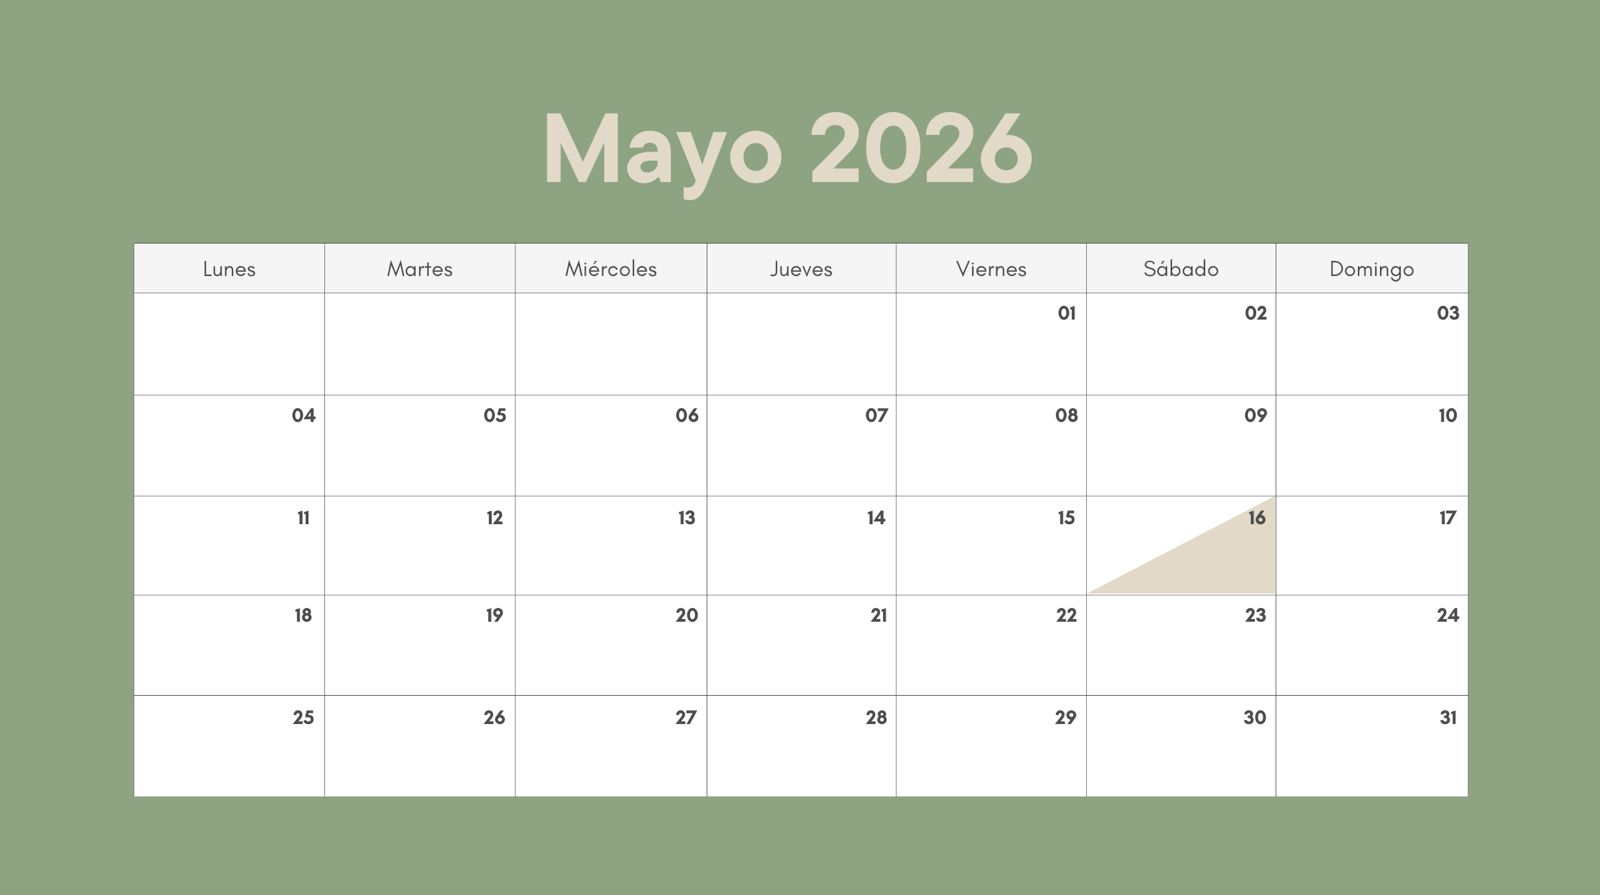
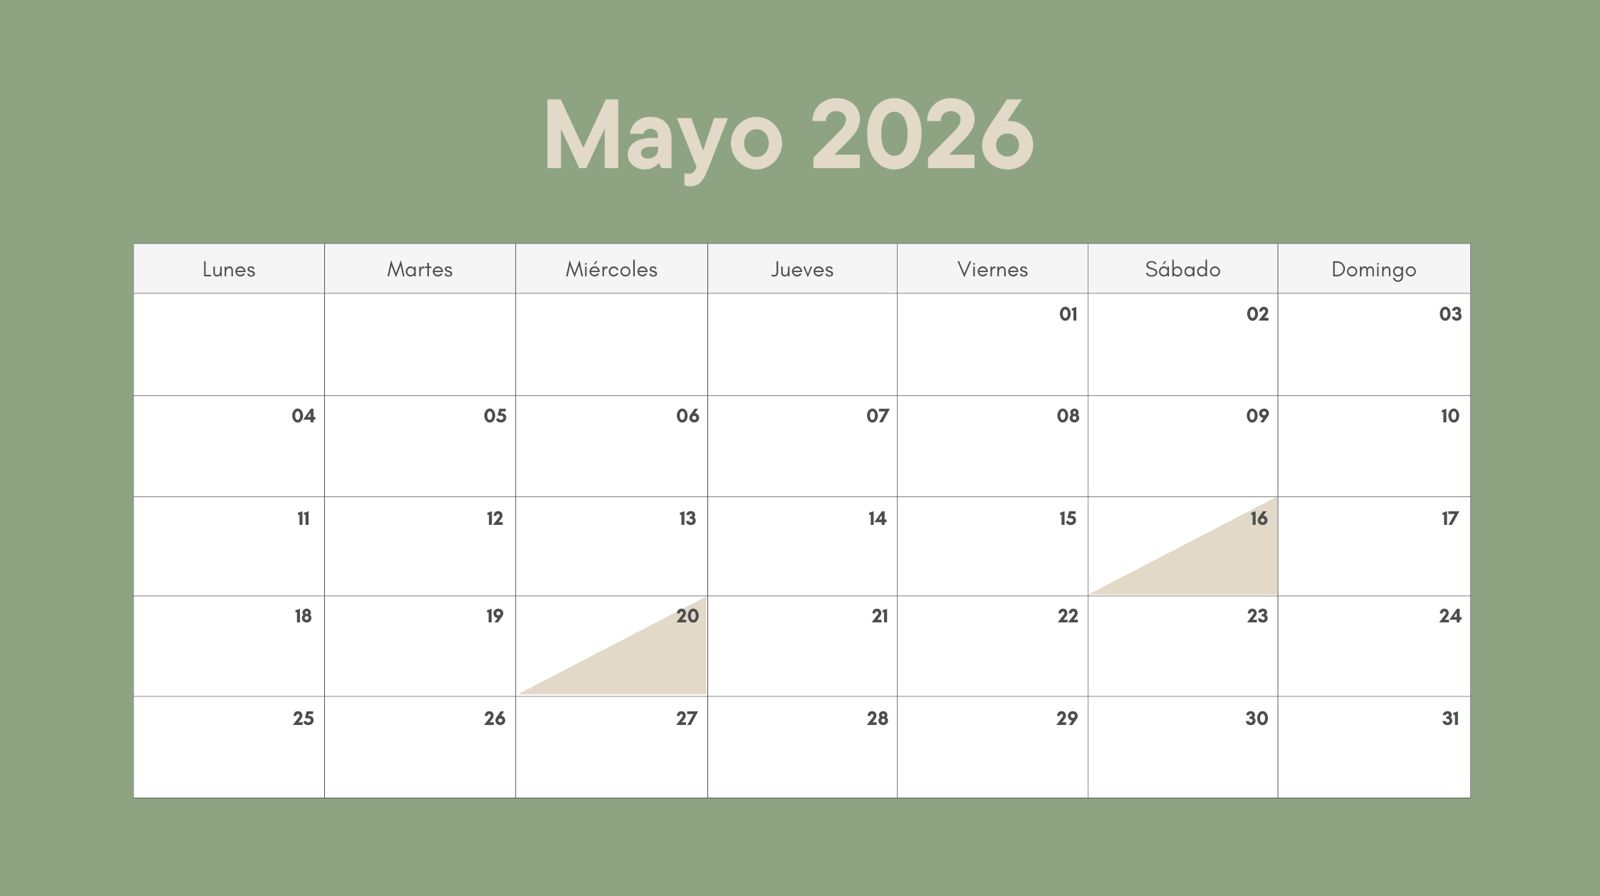
actualizado el calendario y la leyenda

diff --git a/Pagina web/modern.css b/Pagina web/modern.css
@@ -611,44 +611,17 @@ tbody tr:nth-child(even) {
 
 
 /* 🧭 Leyenda visual */
-.calendar-legend {
-  display: flex;
-  justify-content: center;
-  gap: 2rem;
-  margin-top: 2rem;
-  flex-wrap: wrap;
-  font-size: 1rem;
-  color: #4b4b4b;
-  text-align: center;
+.calendar-legend-img {
+  display: block;
+  max-width: 600px;
+  margin: 3rem auto;
+  height: auto;
+  border-radius: 15px;
+  box-shadow: 0 8px 24px rgba(0, 0, 0, 0.12);
+  transition: transform 0.3s ease, box-shadow 0.3s ease;
+  padding: 5px;
+  background: #fff;
 }
-
-.calendar-legend span {
-  display: flex;
-  align-items: center;
-  gap: 0.5rem;
-}
-
-.legend-box {
-  width: 20px;
-  height: 20px;
-  border-radius: 5px;
-}
-
-/* 🟫🟩 Ocupado mañana (marrón arriba izquierda → verde abajo derecha) */
-.legend-box.mañana {
-  background: linear-gradient(135deg, #B47B45 50%, #8BB27A 50%);
-}
-
-/* 🟩🟫 Ocupado tarde (verde arriba izquierda → marrón abajo derecha) */
-.legend-box.tarde {
-  background: linear-gradient(135deg, #8BB27A 50%, #B47B45 50%);
-}
-
-/* 🟫 Ocupado completo (marrón sólido) */
-.legend-box.ocupado {
-  background-color: #B47B45;
-}
-
 
 /* 📩 Botón de WhatsApp */
 .whatsapp-button {

diff --git a/Pagina web/index.html b/Pagina web/index.html
@@ -307,11 +307,7 @@
 </div>
 
 
-    <div class="calendar-legend">
-      <span><div class="legend-box mañana"></div> Ocupado mañana</span>
-      <span><div class="legend-box tarde"></div> Ocupado tarde</span>
-      <span><div class="legend-box ocupado"></div> Ocupado completo</span>
-    </div>
+    <img src="img/calendario/leyenda.png" alt="Leyenda del calendario - Ocupado Mañana, Ocupado Tarde, Ocupado Día Completo" class="calendar-legend-img" loading="lazy"/>
   </div>
 </section>
   <p><strong>Para reservar escribanos por WhatsApp ⬇</strong></p><br>
